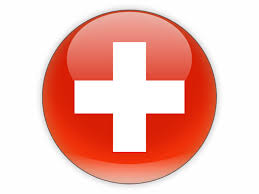
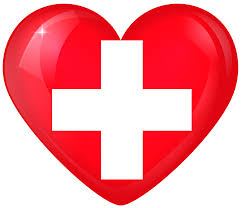
heart

diff --git a/pages/home/client/home.html b/pages/home/client/home.html
@@ -1,7 +1,7 @@
 <template name="home">
 
 
-	<div class="jumbotron">
+	<div>
 
   	<h1> First aid</h1>
   	<p> The number one site for firstaid advice</p>
@@ -9,7 +9,7 @@
 	</div>
 	
 	<div class="row">
-		<div class="col-md-5 col-md-offset-1 bg-info">
+		<div class="col-md-2 col-md-offset-10 bg-info">
 
 
 			<h1>Be a Hero and Save a Life!</h1>
@@ -17,8 +17,10 @@
 
 			<img src="images/FirstAidpic.png" width="10%" alt="First ai"/>
 		</div>
+	</div>
+	<div class="row">
 
-		<div class="col-md-3 col-md-offset-2 bg-warning">
+		<div class="col-md-2 col-md-offset-10 bg-warning">
 			<h1>Express your Creativity!</h1>
 			<p> We’ll give you the tools to design a variety of apps, including social media, lifestyle, entertainment, productivity, educational, and apps straight from your imagination that can be shared with family, friends, and fans the world over!</p>
 			<img src="images/tshirt.jpg" width="100%" alt="the Vertica Lounge"/>

diff --git a/client/layout/layout.html b/client/layout/layout.html
@@ -1,5 +1,5 @@
 <template name="layout">
-	<div class="container" style="background-image: url('images/cross.jpeg'); background-repeat: no-repeat; background-size:100%">
+	<div class="container" style="background-image: url('images/cross.png'); background-repeat: no-repeat; background-size:100%">
 
 		<!-- Here is the standard Bootstrap code for a Navigation bar taken directly from getbootstrap.com/components -->
 		<nav class="navbar navbar-default">

diff --git a/pages/contact/client/contact.html b/pages/contact/client/contact.html
@@ -1,6 +1,7 @@
 <template name="contact">
 
-  <div class="jumbotron">
+  <div style="text-align: center;position:relative;top:250px">
+
     <h1>Contact us</h1>
       <p> You can contact the authors at <br>
       ajeanbaptiste@brandeis.edu <br>
@@ -9,7 +10,7 @@
 
 
       <form>
-      	<textarea cols="100%" rows="10"></textarea>
+      	<textarea cols="50" rows="5"></textarea><br>
       	<button>Submit</button>
       </form>
   </div>
